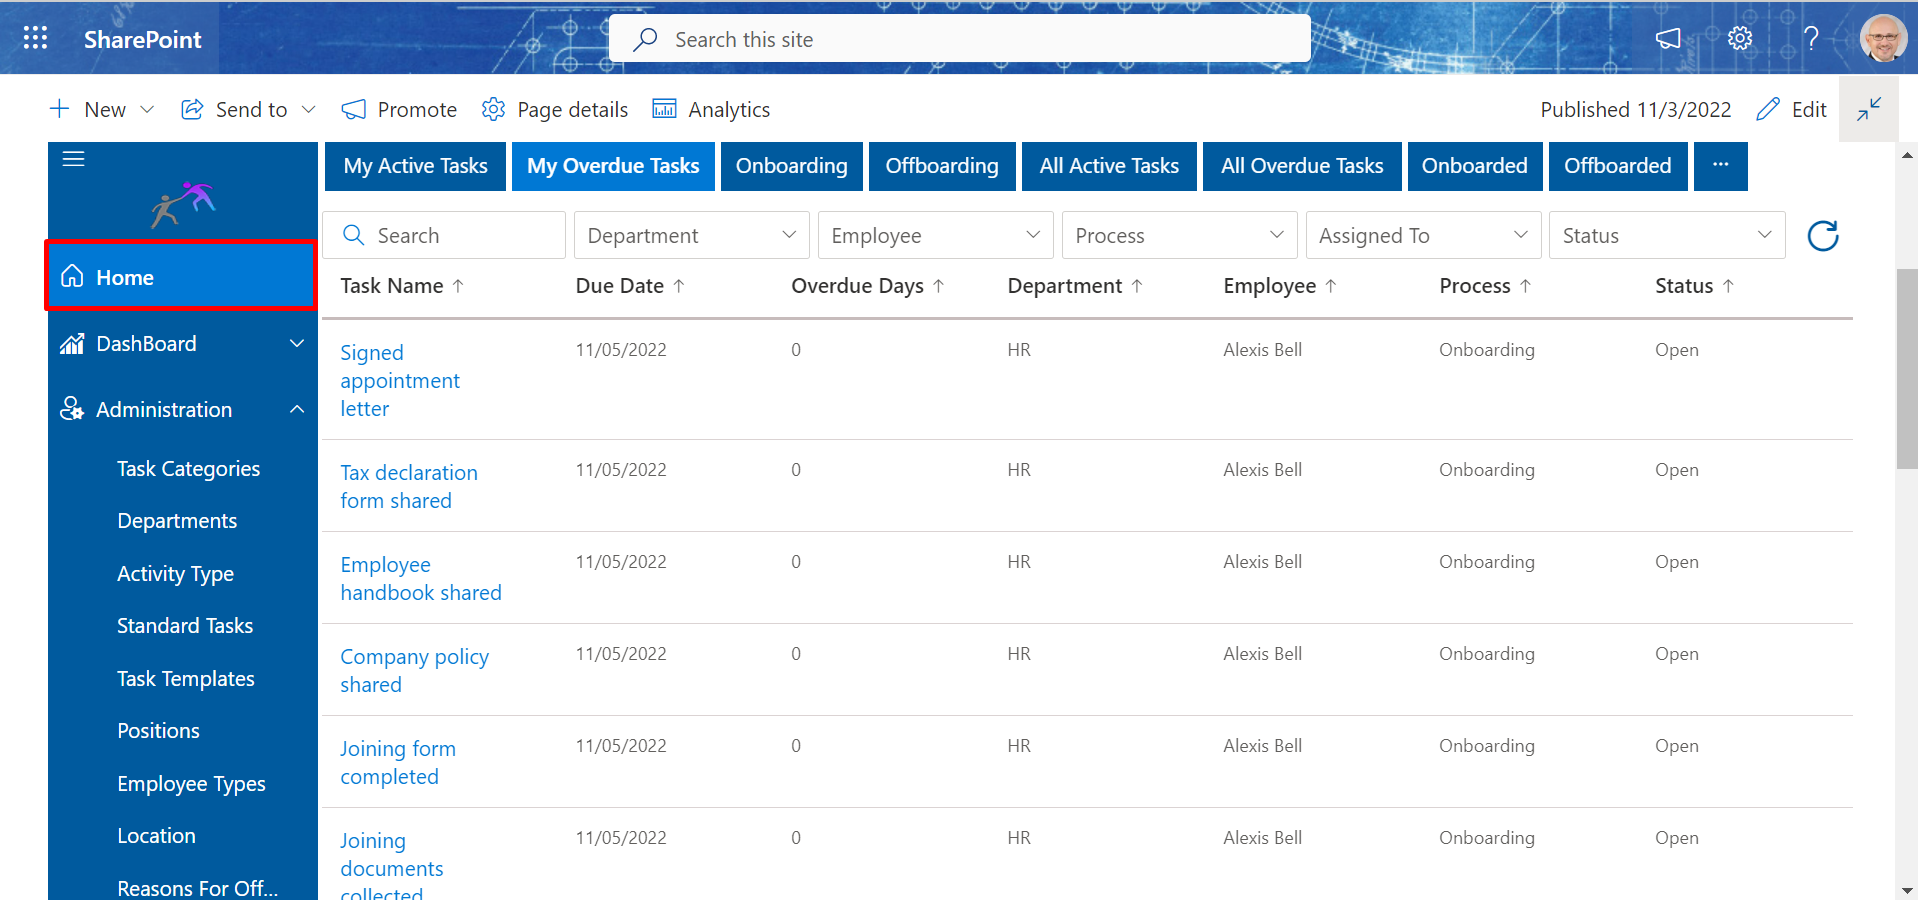
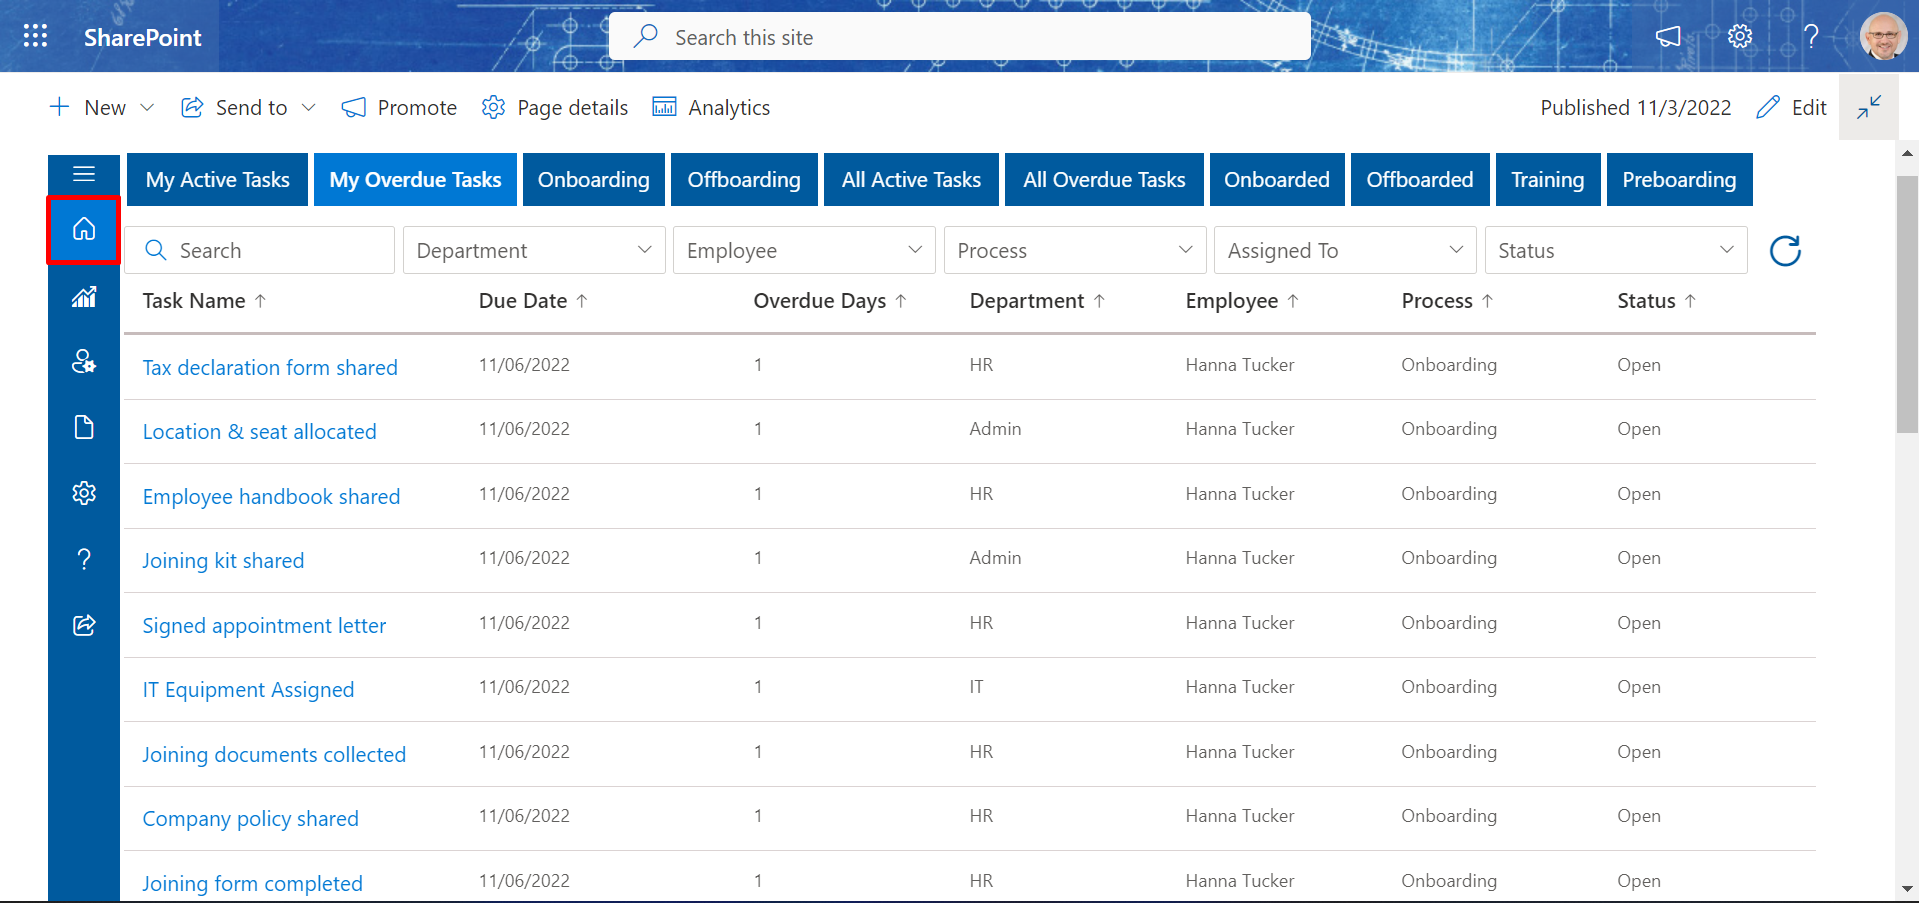
update

diff --git a/sharepoint-employee-onboarding/modern/admin/dashboard/index.html b/sharepoint-employee-onboarding/modern/admin/dashboard/index.html
@@ -1,0 +1,204 @@
+<!doctype html><html lang=en-us>
+<head>
+<meta charset=utf-8>
+<title>Employee On-boarding</title>
+<meta name=viewport content="width=device-width,initial-scale=1">
+<meta name=generator content="Hugo 0.92.2">
+<meta name=description content="Employee Directory - HR365 ">
+<link rel=stylesheet href=https://hr365docs.github.io/docs/plugins/bootstrap/bootstrap.min.css>
+<link rel=stylesheet href=https://hr365docs.github.io/docs/plugins/themify-icons/themify-icons.css>
+<link rel=icon href=# type=image/x-icon>
+<link href="https://fonts.googleapis.com/css?family=Lato:300,400,700&display=swap" rel=stylesheet>
+<script src=https://cdnjs.cloudflare.com/ajax/libs/pdf.js/2.9.359/pdf.min.js></script>
+<script src=https://cdnjs.cloudflare.com/ajax/libs/html2pdf.js/0.9.3/html2pdf.bundle.js></script>
+<style>:root{--primary-color:#5637da;--body-color:#f9f9f9;--text-color:#636363;--text-color-dark:#242738;--white-color:#ffffff;--light-color:#f8f9fa;--font-family:Lato}</style>
+<link href=https://hr365docs.github.io/docs/css/style.min.css rel=stylesheet media=screen>
+<script src=https://hr365docs.github.io/docs/plugins/jquery/jquery-1.12.4.js></script>
+<script src=https://hr365docs.github.io/docs/plugins/jquery/jquery-ui.js></script>
+<script src=https://hr365docs.github.io/docs/plugins/bootstrap/bootstrap.min.js></script>
+<script src=https://hr365docs.github.io/docs/plugins/match-height/jquery.matchHeight-min.js></script>
+<meta property="og:image" content="https://hr365docs.github.io/docs/images/logo.png">
+<meta name=twitter:image content="https://hr365docs.github.io/docs/images/logo.png">
+<meta name=twitter:card content="summary_large_image">
+<meta property="og:image:width" content="2881">
+<meta property="og:image:height" content="681">
+<meta property="og:image:type" content="image/png">
+<meta name=twitter:title content="Employee Directory">
+<meta name=twitter:description content="Employee directory">
+<meta property="og:title" content="Employee Directory">
+<meta property="og:description" content="Employee directory">
+<meta property="og:type" content="website">
+<meta property="og:url" content="https://hr365docs.github.io/docs/sharepoint-employee-onboarding/">
+<meta name=twitter:card content="summary">
+<meta name=twitter:title content="Employee Directory">
+<meta name=twitter:description content="Employee directory">
+</head>
+<body>
+<header class="shadow-bottom sticky-top bg-white">
+<nav class="navbar navbar-expand-lg navbar-light">
+<div class="container px-2 px-md-0">
+    <a class="navbar-brand px-2" href="https://hr365docs.github.io/docs/">
+        <img src="../../../../images/logo_.png" width="100%" height="auto" alt="HR365"/>
+        </a>
+        <button class="navbar-toggler border-0" type=button data-toggle=collapse data-target=#navigation aria-controls=navigation aria-expanded=false aria-label="Toggle navigation">
+         <span class=navbar-toggler-icon></span>
+          <svg xmlns="http://www.w3.org/2000/svg" width="30" height="30" fill="white" class="bi bi-x" viewBox="0 0 16 16">
+            <path d="M4.646 4.646a.5.5 0 0 1 .708 0L8 7.293l2.646-2.647a.5.5 0 0 1 .708.708L8.707 8l2.647 2.646a.5.5 0 0 1-.708.708L8 8.707l-2.646 2.647a.5.5 0 0 1-.708-.708L7.293 8 4.646 5.354a.5.5 0 0 1 0-.708z"/>
+          </svg>
+        </button>
+<div class="collapse navbar-collapse text-center common-header" id=navigation>
+  
+<!-- <select class=lang-list id=select-language onchange="location=this.value"><option id=en value=https://github.com/hr365docs/My-project.git/ selected>En -->
+<!-- </option><option id=fr value=https://github.com/hr365docs/My-project.git/fr/>Fr</option></select> -->
+</div>
+</div>
+</nav>
+</header>
+<section class="single section-sm pb-0">
+<div class=container>
+<div class=row>
+<div class=col-lg-3>
+<div class=sidebar>
+  <h5 class="mbHeading" style="color:SlateBlue"><a href="../../../../sharepoint-employee-onboarding/">Employee On-boarding Modern</a></h5>
+    <a class=back-btn href="../../../../sharepoint-employee-onboarding/" aria-label=back></a>
+    <ul class=list-styled>
+    <li data-nav-id=https://github.com/hr365docs/My-project.git/installation/ title="Admin Guide" class="sidelist
+    active">
+    <a href="../../admin/">
+    Admin Guide
+    </a>
+    <ul id="obm-modern-admin">
+  </ul>
+</li>
+<!-- <li data-nav-id=https://github.com/hr365docs/My-project.git/installation/configuration/ title=Configuration class=sidelist> -->
+<!-- <a href="../Admin-Guide/System/"> -->
+<!-- System -->
+</a>
+</li>
+</ul>
+</li>
+</ul>
+</div>
+</div>
+<div class=col-lg-9>
+<div class="p-lg-4 p-4 bg-white" id=content>
+
+<div class="bg-light p-4">
+    <h2 id="_dashboards"><a class="header-icon-link highlight" href="">Dashboard<i
+        class="fas fa-link" style="font-size:12px; color:lightgray;"></i></a> </h2>
+        <br>
+<ul class=page-list>
+  <li>
+    <p><b><u>Organization</u></b>:
+    From donut chart you will find information of <b>Overdue Task By Department</b>, <b>Overdue Task By Assigned To</b> and <b>All Employees Per Department.</b></p><br>
+    <div><img src="organization.png" onclick="openModal('organization.png')" alt="" width="100%"
+        height="auto"></div>
+<br>
+  </li>
+  <li>
+    <p>
+        <b><u>Onboarding & Offboarding:</u></b>
+         From the dashboard, you will find information of <b>Number Of Employees By Month</b>, <b>Number Of Employees By Department</b>,  
+    </p><br>
+    <div><img src="onboarding.png" onclick="openModal('onboarding.png')" alt="" width="100%"
+        height="auto"></div>
+     
+            
+  </li><br><br>
+  <li>
+    <p>
+        From the dashboard, you will find information of <b>Gender Diversity By Department</b>, <b>Average Age By Department</b>.
+    </p><br>
+  
+    <div><img src="gender.png" onclick="openModal('gender.png')" alt="" width="100%"
+        height="auto"></div>
+  </li><br><br>
+  <li>
+    <p>
+        From the dashboard, you will find information of <b>Gender Diversity By Location</b>, <b>Average Age By Location</b>.
+    </p><br>
+  
+    <div><img src="location.png" onclick="openModal('location.png')" alt="" width="100%"
+        height="auto"></div>
+  </li><br><br>
+  <li><p><b><u>Settings:</u></b>From here you can hide or show the charts on the dashboard.</p><br>
+    <div><img src="dashboard_settings.png" onclick="openModal('dashboard_settings.png')" alt="" width="100%"
+        height="auto"></div>
+ 
+  </li>
+  </ul>
+  
+  
+</div>
+<p class="post-meta border-bottom pb-3 mb-0 mt-3" id="date">
+<nav class="pagination mt-3">
+<a class="nav nav-prev" href="../home/" aria-label="Previous page"><i class="ti-arrow-left mr-2"></i> <span class="d-none d-md-block">Home page</span></a>
+<a class="nav nav-next" href="../access-requirements/" aria-label="Previous page"> <span class="d-none d-md-block">Access requirements</span><i class="ti-arrow-right ml-2"></i></a>
+</nav>
+</div>
+</div>
+</div>
+</div>
+</section>
+<div id="myModal" class="modal">
+    
+    <div class="modal-content">
+        <span class="close_bt cursor_bt" onclick="closeModal()">&times;</span>
+        <div class="mySlides">
+            <img src="" id="imageId" style="width:100%">
+        </div>
+
+    </div>
+</div>
+
+<footer class="section pb-4">
+    <div class=container>
+        <div class="row align-items-center">
+            <div class="col-md-8 text-md-left text-center">
+                <p class="mb-md-0 mb-4">© 2022-<a href=https://www.hr365.us />HR365.</a> <a
+                    href=https://www.cubiclogics.com/wp-content/uploads/2019/11/Cubic-Logics-SLA-Document.pdf>SLA.</a>
+                <a href=https://www.hr365.us/terms-and-conditions />T&C.</a> <a
+                    href=https://www.hr365.us/end-user-license-agreement-eula />EULA.</a> <a
+                    href=https://www.cubiclogics.com/cubiclogics-india-pvt-ltd-terms-of-service-and-privacy-policy />Privacy
+                Policy.</a> <a href=https://www.cubiclogics.com />Cubic Logics.</a>
+            </p>
+            </div>
+            <div class="col-md-4 text-md-right text-center">
+                <ul class=list-inline>
+                    <li class=list-inline-item><a class="text-color d-inline-block p-2"
+                            href="https://www.facebook.com/hr365apps/" aria-label=Facebook><i
+                                class=ti-facebook></i></a></li>
+                    <li class=list-inline-item><a class="text-color d-inline-block p-2"
+                            href="https://twitter.com/HR365_HRMS" aria-label=Twitter><i
+                                class=ti-twitter-alt></i></a></li>
+                    <!-- <li class=list-inline-item><a class="text-color d-inline-block p-2" href=# aria-label=Github><i class=ti-github></i></a></li> -->
+                    <li class=list-inline-item><a class="text-color d-inline-block p-2"
+                            href="https://www.linkedin.com/company/cubic-logics-india-pvt-ltd"
+                            aria-label=Linkedin><i class=ti-linkedin></i></a></li>
+                </ul>
+            </div>
+        </div>
+    </div>
+</footer>
+<script src="../../../../../js/script.min.js"></script>
+<script>
+       function openModal(src) {
+
+document.getElementById("imageId").src= src;
+document.getElementById("myModal").style.display = "block";
+}
+
+function closeModal() {
+document.getElementById("myModal").style.display = "none";
+
+}                       
+                          
+    date = new Date().toLocaleDateString();
+    document.getElementById("date").innerHTML=date;
+   </script>
+   <script src="../../../../js/header-footer.js"></script>
+   <script src="../js-modern-admin/obm-modern-admin.js"></script>
+   <script src="../../../../js/showhidefunction.js"></script>
+</body>
+
+</html> 

diff --git a/sharepoint-employee-onboarding/modern/admin/set-up-of-application/system-setting/index.html b/sharepoint-employee-onboarding/modern/admin/set-up-of-application/system-setting/index.html
@@ -406,7 +406,7 @@
               <ul class=page-list>
                 From <b>Advance Settings</b>, you can create user in M365, select different <b>Date Format</b> and
                 <b>Side Navigation Theme</b>, remove custom webpart Css, hide webpart title and navigation panel in
-                SharePoint page, add employee self service documents, add HR Team, IT, Admin members and domain.
+                SharePoint page, preboarding, add employee self service documents, add HR Team, IT, Admin members and domain.
                 <br>
                 <br>
                 <br>
@@ -435,6 +435,9 @@
                 <br>
                 <b>Hide navigation panel in SharePoint page</b>: If this feature is enabled, you can hide navigation
                 panel in SharePoint page</b>.
+                <br>
+                <br>
+                <b>Preboarding</b>: If this feature is enabled, you can show Preboarding on the home page</b>.
                 <br>
                 <br>
                 <b>Add employee self service documents</b>: From here, you can attach the documents</b>.

diff --git a/sharepoint-employee-onboarding/modern/admin/home/index.html b/sharepoint-employee-onboarding/modern/admin/home/index.html
@@ -122,7 +122,11 @@ In home page menu bar:
   <br>
   <li>
     <b>Onboarded</b>: List of employees which are onboarded.
-  </li>
+  </li><br>
+  <li>
+    <b>Offboarded</b>: List of employees which are offboarded.
+  </li><br>
+  
 </ul>
 
 
@@ -131,7 +135,7 @@ In home page menu bar:
     <p class="post-meta border-bottom pb-3 mb-0 mt-3" id="date">
     <nav class="pagination mt-3">
     <a class="nav nav-prev" href="../overview/" aria-label="Previous page"><i class="ti-arrow-left mr-2"></i> <span class="d-none d-md-block">Overview</span></a>
-    <a class="nav nav-next" href="../access-requirements/" aria-label="Previous page"> <span class="d-none d-md-block">Access requirements</span><i class="ti-arrow-right ml-2"></i></a>
+    <a class="nav nav-next" href="../dashboard/" aria-label="Previous page"> <span class="d-none d-md-block">Dashboard</span><i class="ti-arrow-right ml-2"></i></a>
     </nav>
     </div>
     </div>

diff --git a/sharepoint-employee-onboarding/modern/admin/js-modern-admin/obm-modern-admin.js b/sharepoint-employee-onboarding/modern/admin/js-modern-admin/obm-modern-admin.js
@@ -9,7 +9,9 @@ $(document).ready(function() {
         "<li data-nav-id='../Exclude-Options/' title='Home Page' class=sidelist>"+
         "<a href='/sharepoint-employee-onboarding/modern/admin/home/'> Home Page </a>"+
         "</li>"+
-
+        "<li data-nav-id='../Exclude-Options/' title='Dashboard' class=sidelist>"+
+        "<a href='/sharepoint-employee-onboarding/modern/admin/dashboard/'>Dashboard</a>"+
+        "</li>"+
         "<li data-nav-id=https://github.com/hr365docs/My-project.git/installation/requirments/ title='Access requirements' class='sidelist'>"+
         "<a href='/sharepoint-employee-onboarding/modern/admin/access-requirements/'> Access requirements </a>"+
         "</li>"+

diff --git a/sharepoint-employee-onboarding/modern/admin/access-requirements/index.html b/sharepoint-employee-onboarding/modern/admin/access-requirements/index.html
@@ -145,7 +145,7 @@
 </div>
 <p class="post-meta border-bottom pb-3 mb-0 mt-3" id="date">
 <nav class="pagination mt-3">
-<a class="nav nav-prev" href="../home/" aria-label="Previous page"><i class="ti-arrow-left mr-2"></i> <span class="d-none d-md-block">Home page</span></a>
+<a class="nav nav-prev" href="../dashboard/" aria-label="Previous page"><i class="ti-arrow-left mr-2"></i> <span class="d-none d-md-block">Dashboard</span></a>
 <a class="nav nav-next" href="../set-up-of-application/" aria-label="Previous page"> <span class="d-none d-md-block">Set Up Of Application </span><i class="ti-arrow-right ml-2"></i></a>
 </nav>
 </div>
